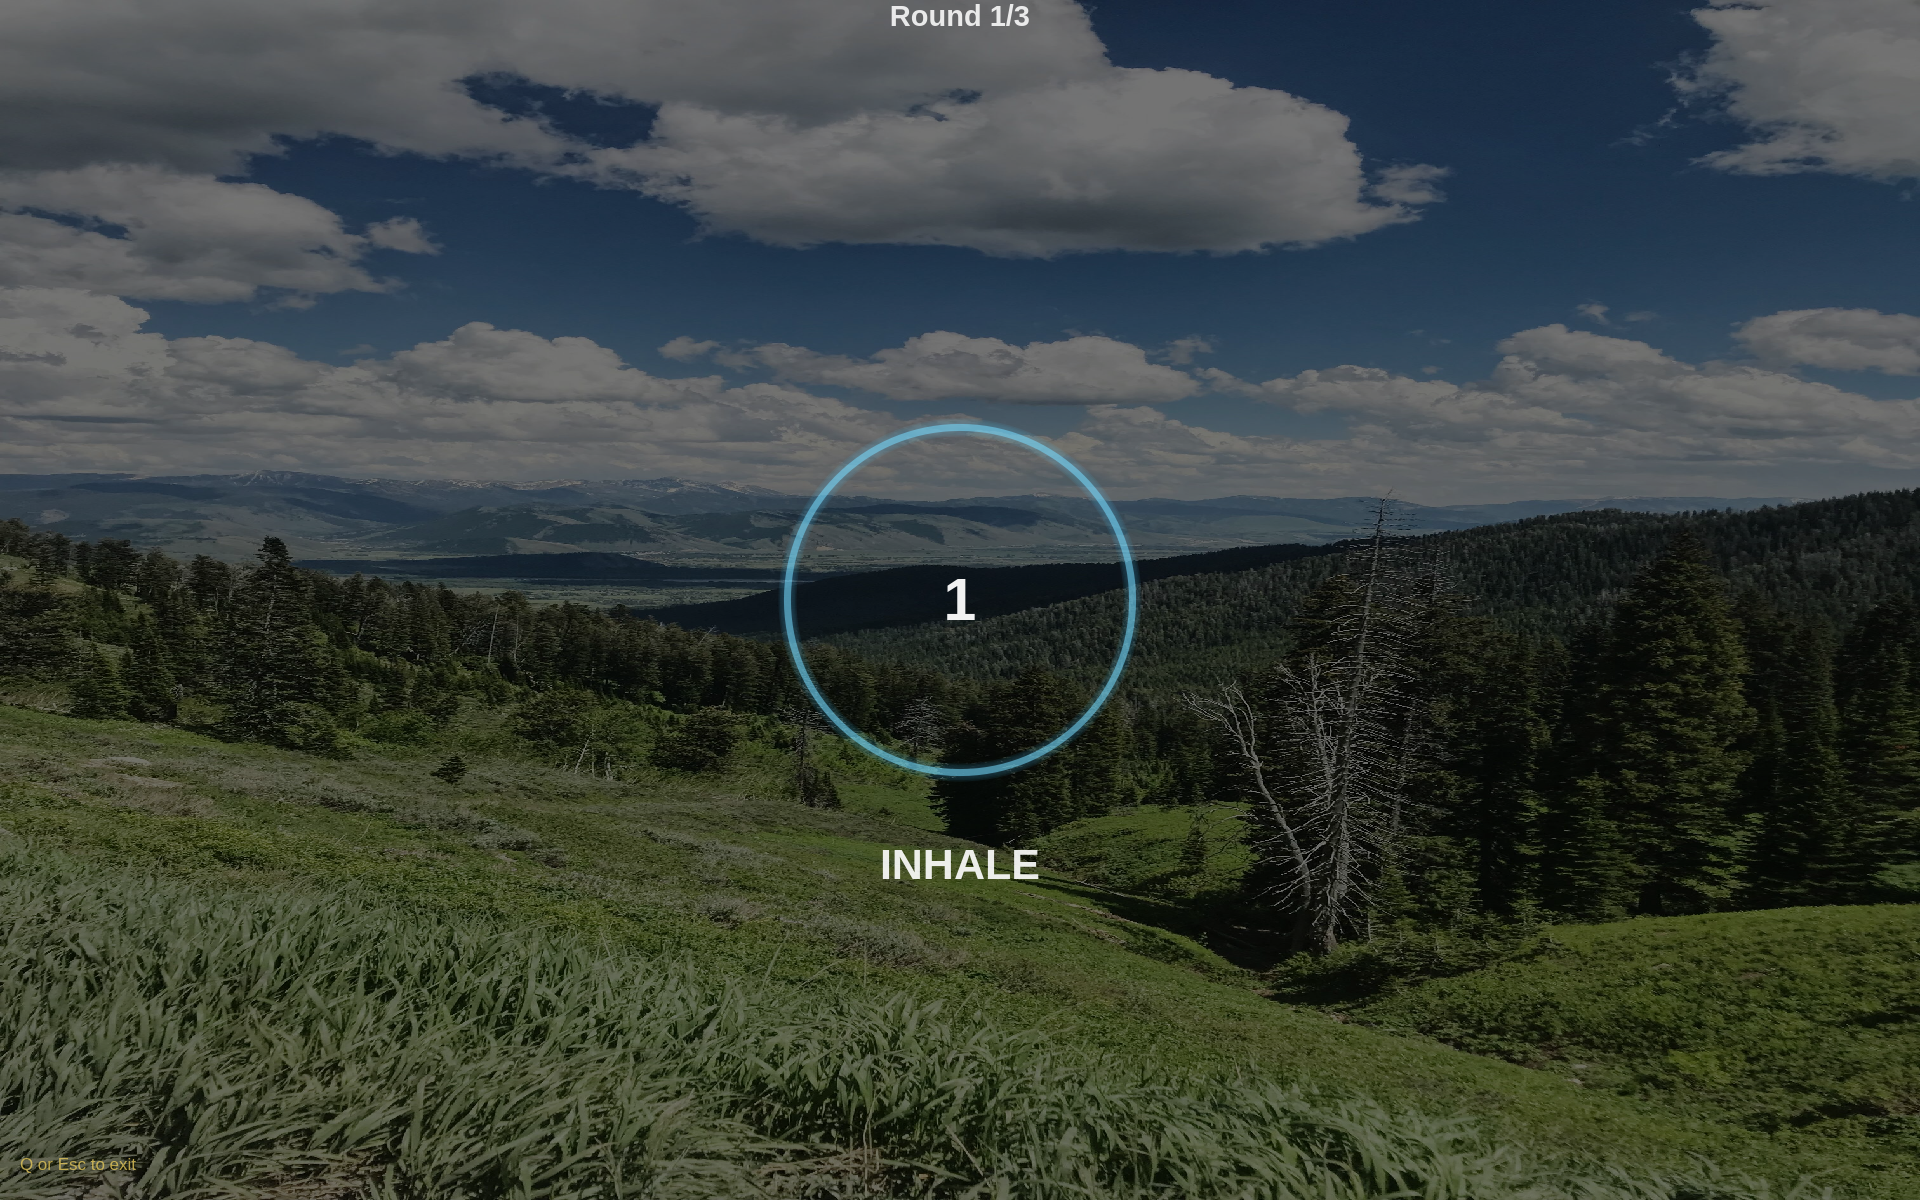
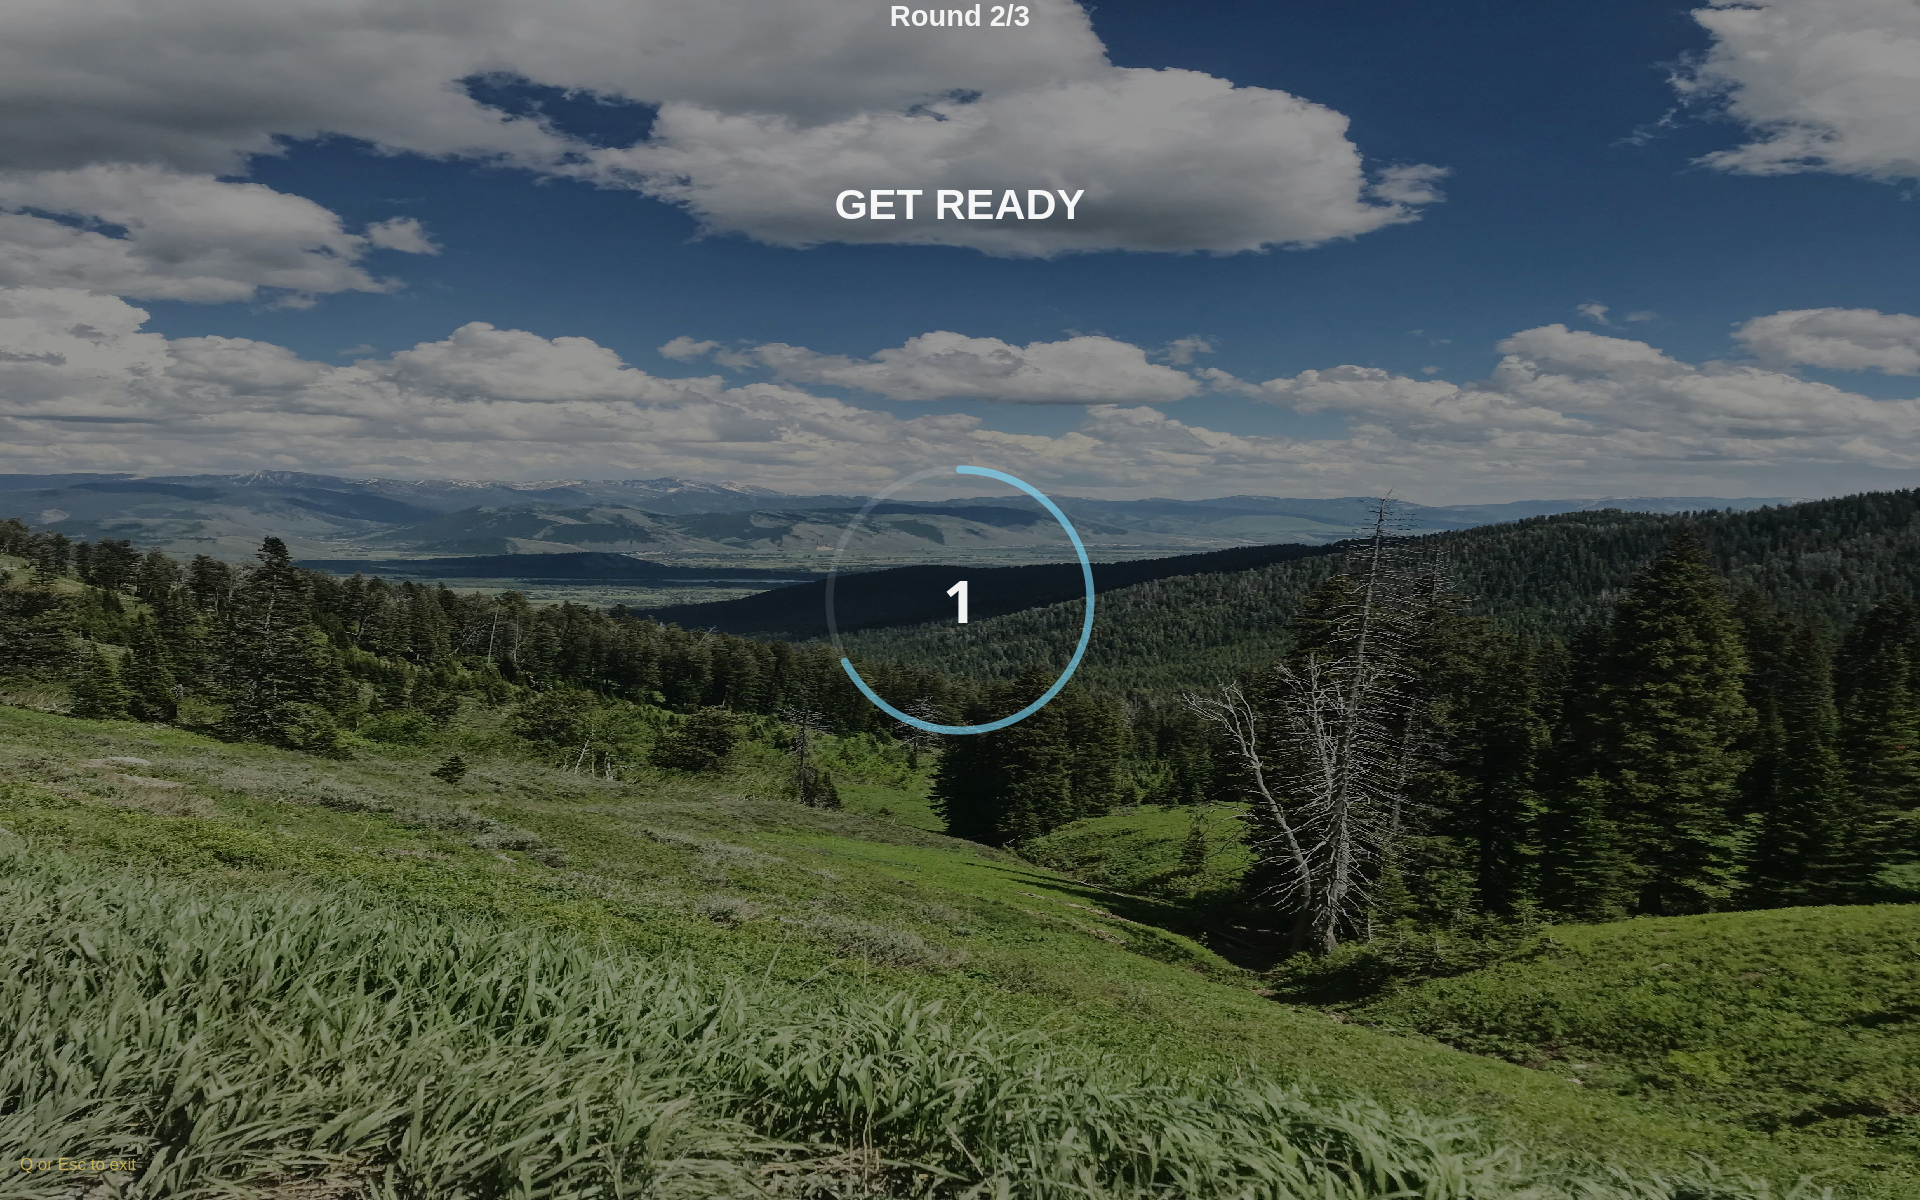
Pause added
NB self.radius in BreathWidget now rules the circle.

diff --git a/src/wimhof/main.py b/src/wimhof/main.py
@@ -24,7 +24,25 @@ from PySide6.QtGui import (
     QPixmap,
 )
 from PySide6.QtMultimedia import QAudioOutput, QMediaPlayer
-from PySide6.QtWidgets import QApplication, QWidget
+from PySide6.QtWidgets import QApplication, QWidget, QVBoxLayout, QLabel
+
+class QTimerWithPause(QTimer):
+    def __init__(self, parent=None, interval=0, singleShot=False):
+        super().__init__(parent)
+        self.setInterval(interval)
+        self.setSingleShot(singleShot)
+        self.remaining = 0
+
+    def pause(self):
+        self.remaining = self.remainingTime()
+        self.stop()
+
+    def resume(self):
+        self.start(self.remaining)
+
+    def reset(self):
+        self.start(self.interval())
+
 
 # ============================================================
 # DATA MODEL
@@ -209,6 +227,16 @@ class BreathingWidget(QWidget):
 
         self.setWindowTitle("Wim Hof Breathing")
         self.setWindowFlags(Qt.FramelessWindowHint)
+
+        layout = QVBoxLayout(self)
+        self.help_label = QLabel("")
+        layout.addWidget(self.help_label)
+        self.setLayout(layout)
+        self.help_label.setAlignment(Qt.AlignLeft | Qt.AlignTop)
+        self.help_label.setWordWrap(True)
+        self.help_label.setFont(QFont("Sans-serif", 16, QFont.Medium))
+        self.help_label.setWindowTitle("Q or Esc to exit\nSpace to pause")
+
         self.showFullScreen()
 
         self.phases = load_config(config_path)
@@ -219,7 +247,7 @@ class BreathingWidget(QWidget):
 
         self.bg = QPixmap("assets/background.jpg")
 
-        self.timer = QTimer(self)
+        self.timer = QTimerWithPause(self)
         self.timer.timeout.connect(self.tick)
         self.timer.start(16)
 
@@ -255,6 +283,8 @@ class BreathingWidget(QWidget):
         if self.index >= len(self.phases):
             self.index = 0
 
+        if self.phase.type == "prpare":
+            self.photo_label.choose_random()
     # --------------------------------------------------------
 
     def tick(self):
@@ -288,7 +318,14 @@ class BreathingWidget(QWidget):
             self.radius = above_max + pulse
 
         elif p.type == "relax_countdown":
-            self.radius = 0
+            self.radius = self.radius - (self.radius - self.MAX_R) * progress / 4
+            # was: self.radius = 0
+
+        elif p.type == "prepare":
+            start_r = self.MAX_R * 0.9
+            end_r = self.MIN_R
+
+            self.radius = start_r - (start_r - end_r) * progress
 
         if self.t >= p.duration:
             self.next()
@@ -305,22 +342,54 @@ class BreathingWidget(QWidget):
         if not self.bg.isNull():
             painter.drawPixmap(self.rect(), self.bg)
 
-        painter.fillRect(self.rect(), QColor(0, 0, 0, 140))
-
         p = self.phase
 
         cx = self.width() / 2
         cy = self.height() / 2
 
         # ====================================================
+        # BACKGROUND
+        # ====================================================
+
+        NORMAL_OVERLAY = 140
+
+        overlay_alpha = NORMAL_OVERLAY
+
+        # ====================================================
+        # PREPARE -> FADE IN
+        # ====================================================
+
+        if p.type == "prepare":
+            progress = min(self.t / p.duration, 1.0)
+            progress = ease(progress)
+            overlay_alpha = int(NORMAL_OVERLAY * progress)
+
+        # ====================================================
+        # RELAX -> FADE OUT
+        # ====================================================
+
+        elif p.type == "relax_countdown":
+            fade = 1.0 - min(self.t / p.duration, 1.0)
+            fade = ease(fade)
+            overlay_alpha = int(NORMAL_OVERLAY * fade)
+
+        painter.fillRect(
+            self.rect(),
+            QColor(0, 0, 0, overlay_alpha)
+        )
+
+        # ====================================================
         # ROUND LABEL
         # ====================================================
 
-        painter.setPen(QColor(255, 255, 255, 220))
+        painter.setPen(QColor(255, 255, 255, 230))
+
         painter.setFont(QFont("Arial", 22, QFont.Bold))
 
+        space = 56
+
         painter.drawText(
-            self.rect(),
+            self.rect().adjusted(space, space, -space, -space),
             Qt.AlignTop | Qt.AlignHCenter,
             f"Round {p.round_index}/{p.round_total}",
         )
@@ -330,7 +399,7 @@ class BreathingWidget(QWidget):
         # ====================================================
 
         painter.setPen(QColor(255, 255, 255, 240))
-        painter.setFont(QFont("Arial", 44, QFont.Bold))
+        painter.setFont(QFont("Comic Sans", 44, QFont.Bold))
 
         if p.type in ("inhale", "exhale"):
             text = str(p.cycle_remaining)
@@ -351,21 +420,30 @@ class BreathingWidget(QWidget):
         # LABEL
         # ====================================================
 
-        painter.setPen(QColor(255, 255, 255, 230))
+        label_alpha = 230
+
+        if p.type == "relax_countdown":
+            fade = 1.0 - min(self.t / p.duration, 1.0)
+            label_alpha = int(230 * fade)
+
         painter.setFont(QFont("Arial", 32, QFont.Bold))
 
         painter.drawText(
-            QRectF(0, self.height() * 0.70, self.width(), 100), Qt.AlignHCenter, p.label
+            QRectF(0, self.height() * 0.15, self.width(), 100), Qt.AlignHCenter, p.label
         )
 
         # ====================================================
         # ESC HINT
         # ====================================================
 
-        painter.setFont(QFont("Arial", 13, QFont.Medium))
-        painter.setPen(QColor(230, 200, 90, 200))  # мягкий янтарный
+        painter.setFont(QFont("Sans-serif", 16, QFont.Medium))
+        painter.setPen(QColor(0x0C, 0x14, 0x55, 200))
 
-        painter.drawText(20, self.height() - 30, "Q or Esc to exit")
+        painter.drawText(
+            self.rect().adjusted(space, space, -space, -space),
+            Qt.AlignTop | Qt.AlignLeft,
+            "Q or Esc to exit\nSpace to pause",
+        )
 
         # ====================================================
         # RING ONLY FOR BREATHING
@@ -374,12 +452,15 @@ class BreathingWidget(QWidget):
         if p.type == "prepare":
             self.draw_prepare_ring(painter, cx, cy)
 
-        elif p.type not in ("relax_countdown",):
+        elif p.type == "relax_countdown":
+            self.draw_relax_ring(painter, cx, cy)
+
+        else:
             self.draw_ring(painter, cx, cy)
 
         painter.end()
 
-    # --------------------------------------------------------
+   # --------------------------------------------------------
 
     def draw_ring(self, painter, cx, cy):
         r = self.radius
@@ -405,13 +486,94 @@ class BreathingWidget(QWidget):
 
     # --------------------------------------------------------
 
-    def draw_prepare_ring(self, painter, cx, cy):
-        r = self.MAX_R * 0.9
+    def draw_relax_ring(self, painter, cx, cy):
+        r = self.radius
 
         progress = min(self.t / self.phase.duration, 1.0)
 
-        # background circle
-        bg_pen = QPen(QColor(255, 255, 255, 40))
+        remaining = 1.0 - progress
+
+        # ====================================================
+        # subtle fading background ring
+        # ====================================================
+
+        bg_alpha = int(40 * remaining)
+
+        bg_pen = QPen(QColor(255, 255, 255, bg_alpha))
+        bg_pen.setWidth(6)
+
+        painter.setPen(bg_pen)
+        painter.setBrush(Qt.NoBrush)
+
+        painter.drawEllipse(
+            QRectF(cx - r, cy - r, r * 2, r * 2)
+        )
+
+        # ====================================================
+        # animated disappearing arc
+        # ====================================================
+
+        glow_alpha = int(120 * remaining)
+
+        for i in range(3):
+            pen = QPen(QColor(80, 200, 255, glow_alpha // (i + 2)))
+            pen.setWidth(max(1, 14 - i * 4))
+
+            painter.setPen(pen)
+
+            start_angle = 90 * 16
+            span_angle = -(360 * remaining) * 16
+
+            painter.drawArc(
+                QRectF(cx - r, cy - r, r * 2, r * 2),
+                start_angle,
+                int(span_angle),
+            )
+
+        # ====================================================
+        # main arc
+        # ====================================================
+
+        main_alpha = int(220 * remaining)
+
+        pen = QPen(QColor(120, 220, 255, main_alpha))
+        pen.setWidth(max(2, int(8 * remaining)))
+        pen.setCapStyle(Qt.RoundCap)
+
+        painter.setPen(pen)
+
+        painter.drawArc(
+            QRectF(cx - r, cy - r, r * 2, r * 2),
+            90 * 16,
+            int(-(360 * remaining) * 16),
+        )
+
+    # --------------------------------------------------------
+
+    def draw_prepare_ring(self, painter, cx, cy):
+        progress = min(self.t / self.phase.duration, 1.0)
+
+        # ====================================================
+        # smooth radius shrink
+        # ====================================================
+
+        # start_r = self.MAX_R * 0.9
+        # end_r = self.MIN_R
+
+        # r = start_r - (start_r - end_r) * progress
+        r = self.radius
+
+        # ====================================================
+        # fade-in alpha
+        # ====================================================
+
+        alpha = int(220 * progress)
+
+        # ====================================================
+        # background ring
+        # ====================================================
+
+        bg_pen = QPen(QColor(255, 255, 255, int(40 * progress)))
         bg_pen.setWidth(8)
 
         painter.setPen(bg_pen)
@@ -421,22 +583,24 @@ class BreathingWidget(QWidget):
             QRectF(cx - r, cy - r, r * 2, r * 2)
         )
 
+        # ====================================================
         # animated arc
-        arc_pen = QPen(QColor(120, 220, 255, 220))
+        # ====================================================
+
+        arc_pen = QPen(QColor(120, 220, 255, alpha))
         arc_pen.setWidth(8)
         arc_pen.setCapStyle(Qt.RoundCap)
 
         painter.setPen(arc_pen)
 
         start_angle = 90 * 16
-        span_angle = -360 * progress * 16
+        span_angle = -(360 * progress) * 16
 
         painter.drawArc(
             QRectF(cx - r, cy - r, r * 2, r * 2),
             start_angle,
-            span_angle,
+            int(span_angle),
         )
-
     # --------------------------------------------------------
 
     def eventFilter(self, obj: QObject, event: QEvent) -> bool:
@@ -445,6 +609,15 @@ class BreathingWidget(QWidget):
 
             if key.key() in (Qt.Key.Key_Escape, Qt.Key.Key_Q):
                 QApplication.quit()
+                return True
+            if key.key() == Qt.Key.Key_Space:
+                if self.timer.isActive():
+                    self.timer.pause()
+                    self.player.pause()
+                else:
+                    self.timer.resume()
+                    self.player.play()
+
                 return True
 
         return super().eventFilter(obj, event)